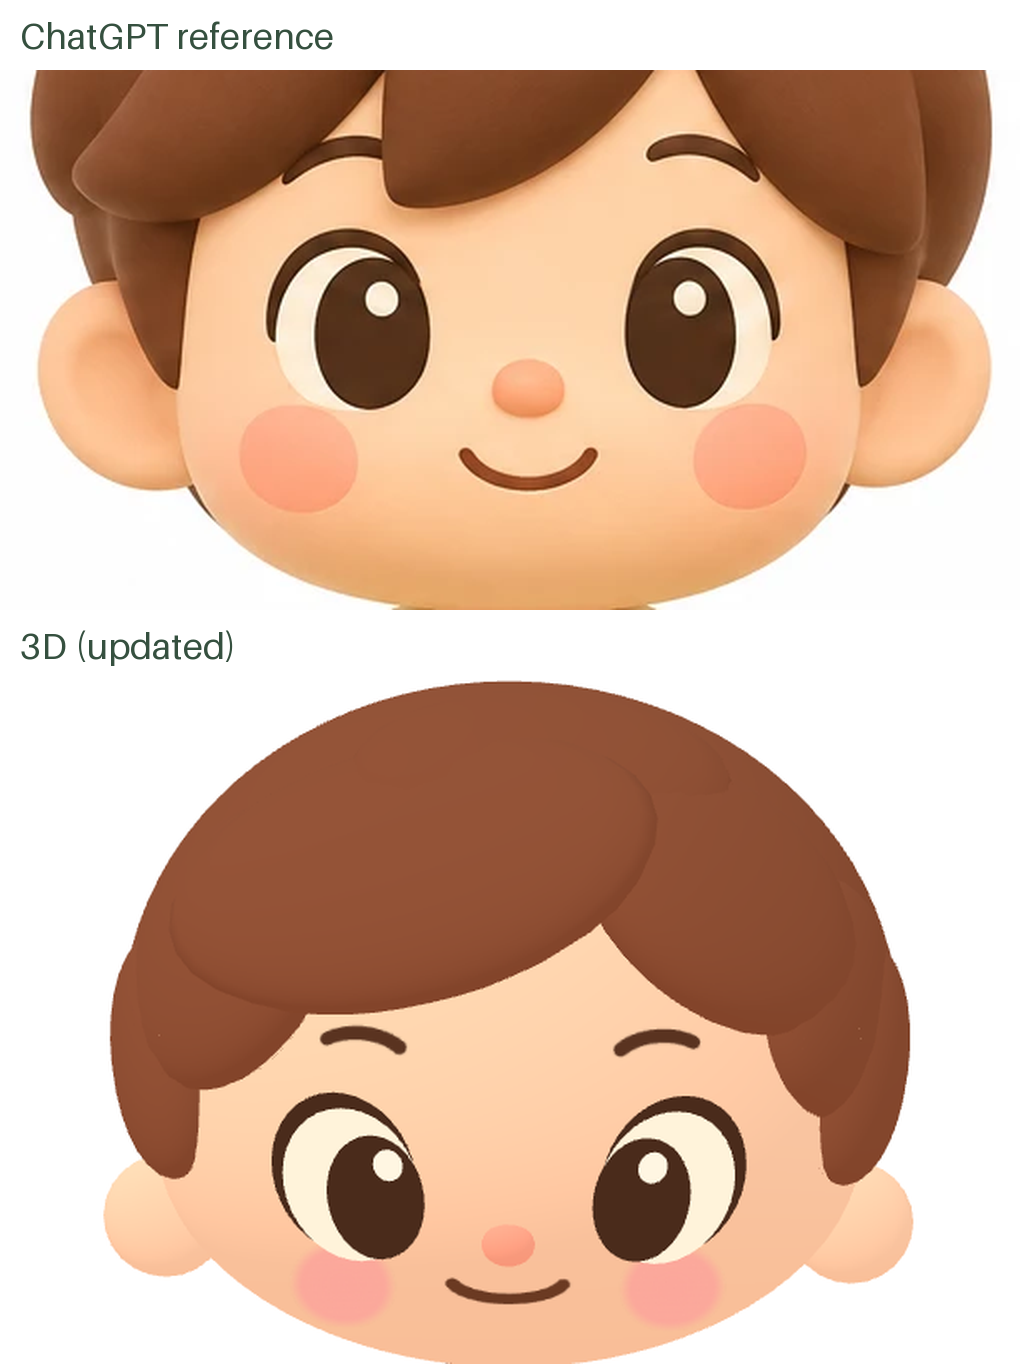
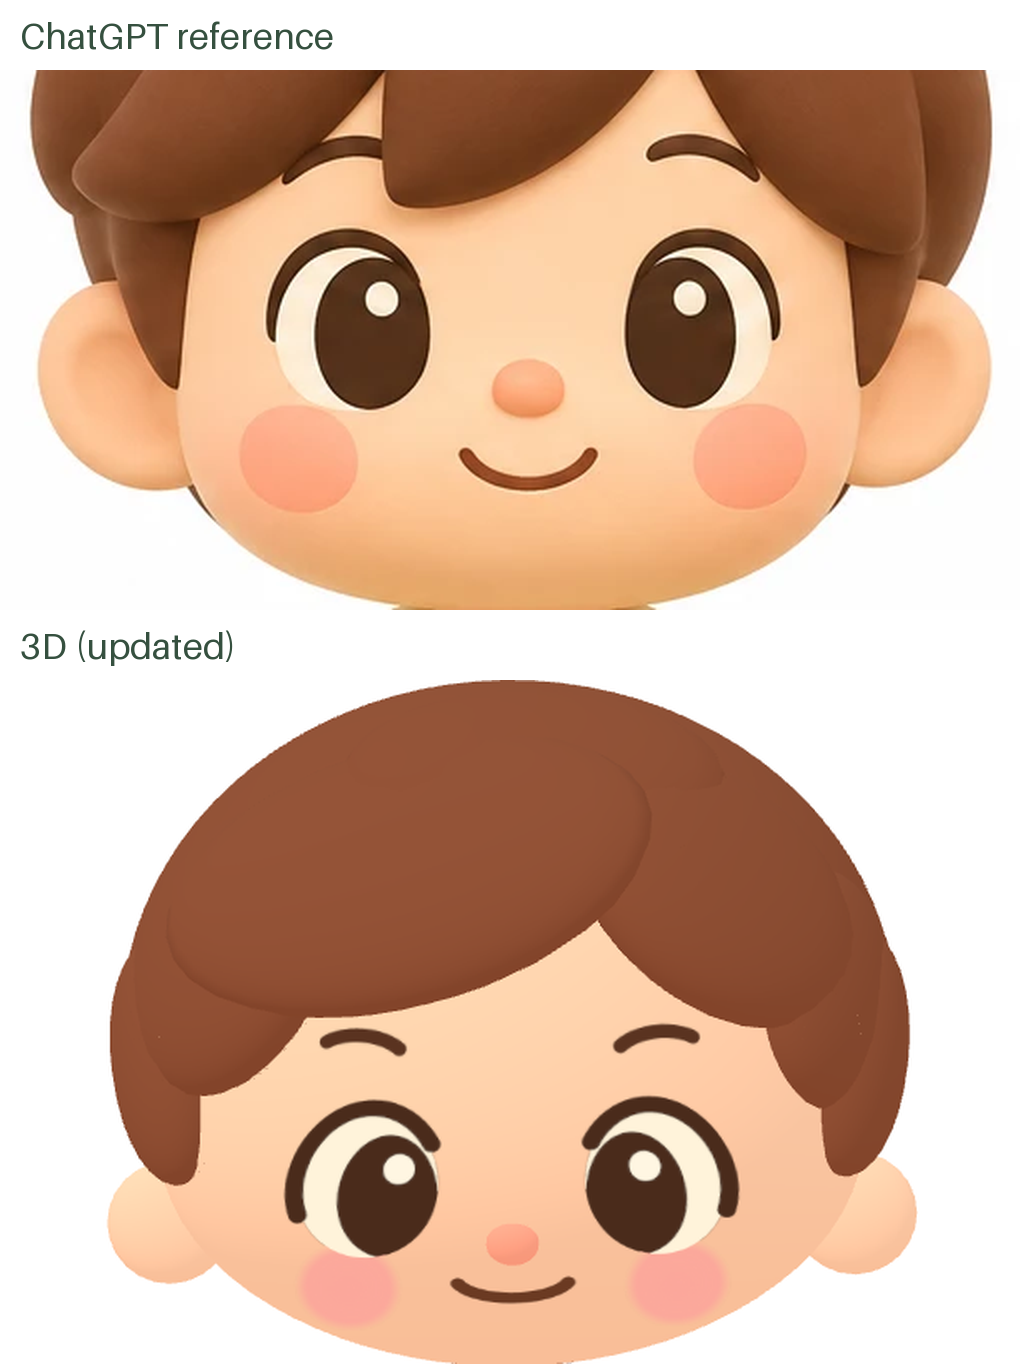
3D 아바타 시제품: 눈을 정면 기준 그림으로 바꿔 원본처럼 반듯하고 둥글게, 내려다보는 카메라용 고개 들기 추가
Claude-Session: https://claude.ai/code/session_0159aZotMhLJwovxiTTw4ndE

diff --git a/prototype/3d-avatar/avatar.js b/prototype/3d-avatar/avatar.js
@@ -5,7 +5,7 @@ import * as THREE from 'three';
 const deg = THREE.MathUtils.degToRad;
 export const DEFAULT_LOOK = {
   skin: '#FFD9B8', hair: '#96563A', shirt: '#AAC45E', collar: '#FBEBC6',
-  shorts: '#FBE8C0', shoe: '#B9703F', sole: '#FBE9C4', eye: '#4A2B1B', cheek: '#FBA69B', eyeScale: 1.18, cheekScale: 1.0,
+  shorts: '#FBE8C0', shoe: '#B9703F', sole: '#FBE9C4', eye: '#4A2B1B', cheek: '#FBA69B', eyeScale: 1.1, cheekScale: 1.0,
 };
 export const LOOKS = [
   {},
@@ -15,7 +15,7 @@ export const LOOKS = [
 ];
 
 const HEAD_R = 0.24;
-const FACE = { span: 0.46, W: 512, H: 512, alpha: deg(66), t0: deg(40), tLen: deg(108) };
+const FACE = { span: 0.46, W: 1024, H: 1024, alpha: deg(66), t0: deg(40), tLen: deg(108) };
 
 function mat(color, extra = {}) {
   return new THREE.MeshStandardMaterial({ color, roughness: 0.92, metalness: 0, ...extra });
@@ -38,9 +38,26 @@ export function drawFace(look, mood = 'smile') {
   }
   g.lineCap = 'round';
   for (const s of [-1, 1]) {
+    const es = look.eyeScale, ex = s * 0.09, ey = -0.09;
+    const nx = 1 / 1.1;   // 볼살 변형으로 가로가 10% 늘어나므로 미리 좁혀 그림(정면에서 원본 비율이 되게)
     if (mood === 'read') {
       g.strokeStyle = look.eye; g.lineWidth = 0.011 * k;
-      g.beginPath(); g.ellipse(X(s * 0.086), Y(-0.085), 0.03 * k, 0.022 * k, 0, 0.12 * Math.PI, 0.88 * Math.PI); g.stroke();
+      g.beginPath(); g.ellipse(X(ex), Y(ey + 0.008), 0.034 * es * k, 0.022 * es * k, 0, 0.12 * Math.PI, 0.88 * Math.PI); g.stroke();
+    } else {
+      const rx = 0.044 * es * k * nx, ry = 0.049 * es * k, cx = X(ex), cy = Y(ey);
+      // 흰자(둥근 타원)
+      g.beginPath(); g.ellipse(cx, cy, rx, ry, 0, 0, Math.PI * 2); g.fillStyle = '#FFF3DA'; g.fill();
+      // 눈동자: 코 쪽·아래로 붙은 큰 타원, 눈 모양 밖으로는 나가지 않게 잘라냄
+      g.save(); g.beginPath(); g.ellipse(cx, cy, rx, ry, 0, 0, Math.PI * 2); g.clip();
+      const pcx = X(ex - s * 0.0125 * es * nx), pcy = Y(ey - 0.008 * es);
+      g.beginPath(); g.ellipse(pcx, pcy, 0.0315 * es * k * nx, 0.0415 * es * k, 0, 0, Math.PI * 2); g.fillStyle = look.eye; g.fill();
+      g.restore();
+      // 속눈썹 선: 굵기가 일정하고 끝이 둥근 선으로 위쪽과 바깥쪽을 감쌈
+      g.strokeStyle = look.eye; g.lineWidth = 0.0105 * es * k;
+      const d2r = Math.PI / 180, a0 = (s < 0 ? 158 : 212) * d2r, a1 = (s < 0 ? 328 : 382) * d2r;
+      g.beginPath(); g.ellipse(cx, cy, rx + 0.002 * k, ry + 0.002 * k, 0, a0, a1); g.stroke();
+      // 반짝임
+      g.beginPath(); g.ellipse(X(ex - s * 0.0125 * es * nx + 0.006 * es), Y(ey - 0.008 * es + 0.019 * es), 0.0098 * es * k * nx, 0.0098 * es * k, 0, 0, Math.PI * 2); g.fillStyle = '#FFF6E2'; g.fill();
     }
     g.strokeStyle = '#5A3320'; g.lineWidth = 0.0095 * k;
     g.beginPath(); g.ellipse(X(s * 0.1), Y(-0.002), 0.032 * k, 0.019 * k, s * -0.12, Math.PI * 1.22, Math.PI * 1.78); g.stroke();
@@ -186,15 +203,7 @@ export class Avatar {
     // 원본 그림의 눈 구조: 둥근 크림색 흰자 + 안쪽·아래로 붙은 눈동자 + 위·바깥쪽을 감싸는 짙은 속눈썹 선
     this.eyes = [];
     const es = look.eyeScale, cs = look.cheekScale;
-    const ball = new THREE.SphereGeometry(1, 24, 18), disc = new THREE.CircleGeometry(1, 28);
-    for (const s of [-1, 1]) {
-      const ex = s * 0.098, ey = -0.09;
-      const lash = decal(head, ball, flat(look.eye), ex + s * 0.0045 * es, ey + 0.0065 * es, 0.047 * es, 0.0515 * es, 0.004, 1.003, 1);
-      const white = decal(head, ball, flat('#FFF3DA'), ex, ey, 0.044 * es, 0.049 * es, 0.005, 1.005, 2);
-      const pupil = decal(head, ball, flat(look.eye), ex - s * 0.0135 * es, ey - 0.0075 * es, 0.0305 * es, 0.0405 * es, 0.006, 1.008, 3);
-      const glint = decal(head, ball, flat('#FFF6E2'), ex - s * 0.0135 * es + 0.006 * es, ey + 0.013 * es, 0.0092 * es, 0.0098 * es, 0.003, 1.02, 4);
-      this.eyes.push(lash, white, pupil, glint);
-    }
+    const ball = new THREE.SphereGeometry(1, 24, 18);
     // 코: 살짝 튀어나온 둥근 코
     decal(head, ball, mat('#F9A88E', { emissive: '#F58F78', emissiveIntensity: 0.25 }), 0, -0.134, 0.0185, 0.0165, 0.014, 1.0, 0);
     // 머리카락: 머리보다 조금 큰 공을 뒤·위로 물려 씌우면 얼굴만 둥글게 드러남 + 앞머리 덩어리
@@ -224,6 +233,7 @@ export class Avatar {
 
     this.t = Math.random() * 10;
     this.state = 'idle';
+    this.lookUp = 0;   // 고개 드는 각도(라디안). 내려다보는 카메라에서는 0.25 정도
   }
 
   setMood(mood) { this.faceMat.map.dispose(); this.faceMat.map = drawFace(this.look, mood); }
@@ -239,7 +249,7 @@ export class Avatar {
     this.t += dt;
     const t = this.t, [la, ra] = this.arms, [ll, rl] = this.legs;
     const rest = (a) => { a.rotation.set(0, 0, a.userData.side * deg(33)); };
-    this.body.position.y = 0; this.torso.rotation.set(0, 0, 0); this.head.rotation.set(0, 0, 0);
+    this.body.position.y = 0; this.torso.rotation.set(0, 0, 0); this.head.rotation.set(-this.lookUp, 0, 0);
     ll.rotation.set(0, 0, 0); rl.rotation.set(0, 0, 0); rest(la); rest(ra);
     this.torso.position.set(0, 0, 0);
     if (this.state === 'idle') {
@@ -255,7 +265,7 @@ export class Avatar {
       ll.rotation.x = deg(-86); rl.rotation.x = deg(-86);
       if (this.state === 'read') {
         la.rotation.set(deg(-58), 0, deg(14)); ra.rotation.set(deg(-58), 0, deg(-14));
-        this.head.rotation.x = deg(9) + Math.sin(t * 0.9) * 0.02;
+        this.head.rotation.x = deg(9) - this.lookUp * 0.5 + Math.sin(t * 0.9) * 0.02;
         this.torso.rotation.x = deg(5);
         this.book.position.set(0, 0.385, 0.2); this.book.rotation.set(deg(38), 0, 0);
       } else {

diff --git a/prototype/3d-avatar/demo.js b/prototype/3d-avatar/demo.js
@@ -45,7 +45,7 @@ if (view === 'faces') {
     for (const sx of [-0.17, 0.17]) for (const sz of [-0.2, 0.1]) { const l = rb(0.04, 0.2, 0.04, woodD); l.position.set(sx, 0.1, sz); g.add(l); }
     scene.add(g); return g;
   };
-  const place = (look, x, z, ry, state, sitY = 0) => { const av = new Avatar(look); av.root.position.set(x, sitY, z); av.root.rotation.y = THREE.MathUtils.degToRad(ry); av.setState(state); scene.add(av.root); avatars.push(av); return av; };
+  const place = (look, x, z, ry, state, sitY = 0) => { const av = new Avatar(look); av.root.position.set(x, sitY, z); av.root.rotation.y = THREE.MathUtils.degToRad(ry); av.setState(state); av.lookUp = 0.27; scene.add(av.root); avatars.push(av); return av; };
   desk(-0.75, -0.9); desk(0.75, -0.9); desk(-0.75, 0.5);
   place(LOOKS[0], -0.75, -0.9, 0, 'read', 0.05);
   place(LOOKS[2], 0.75, -0.9, 0, 'sit', 0.05);
